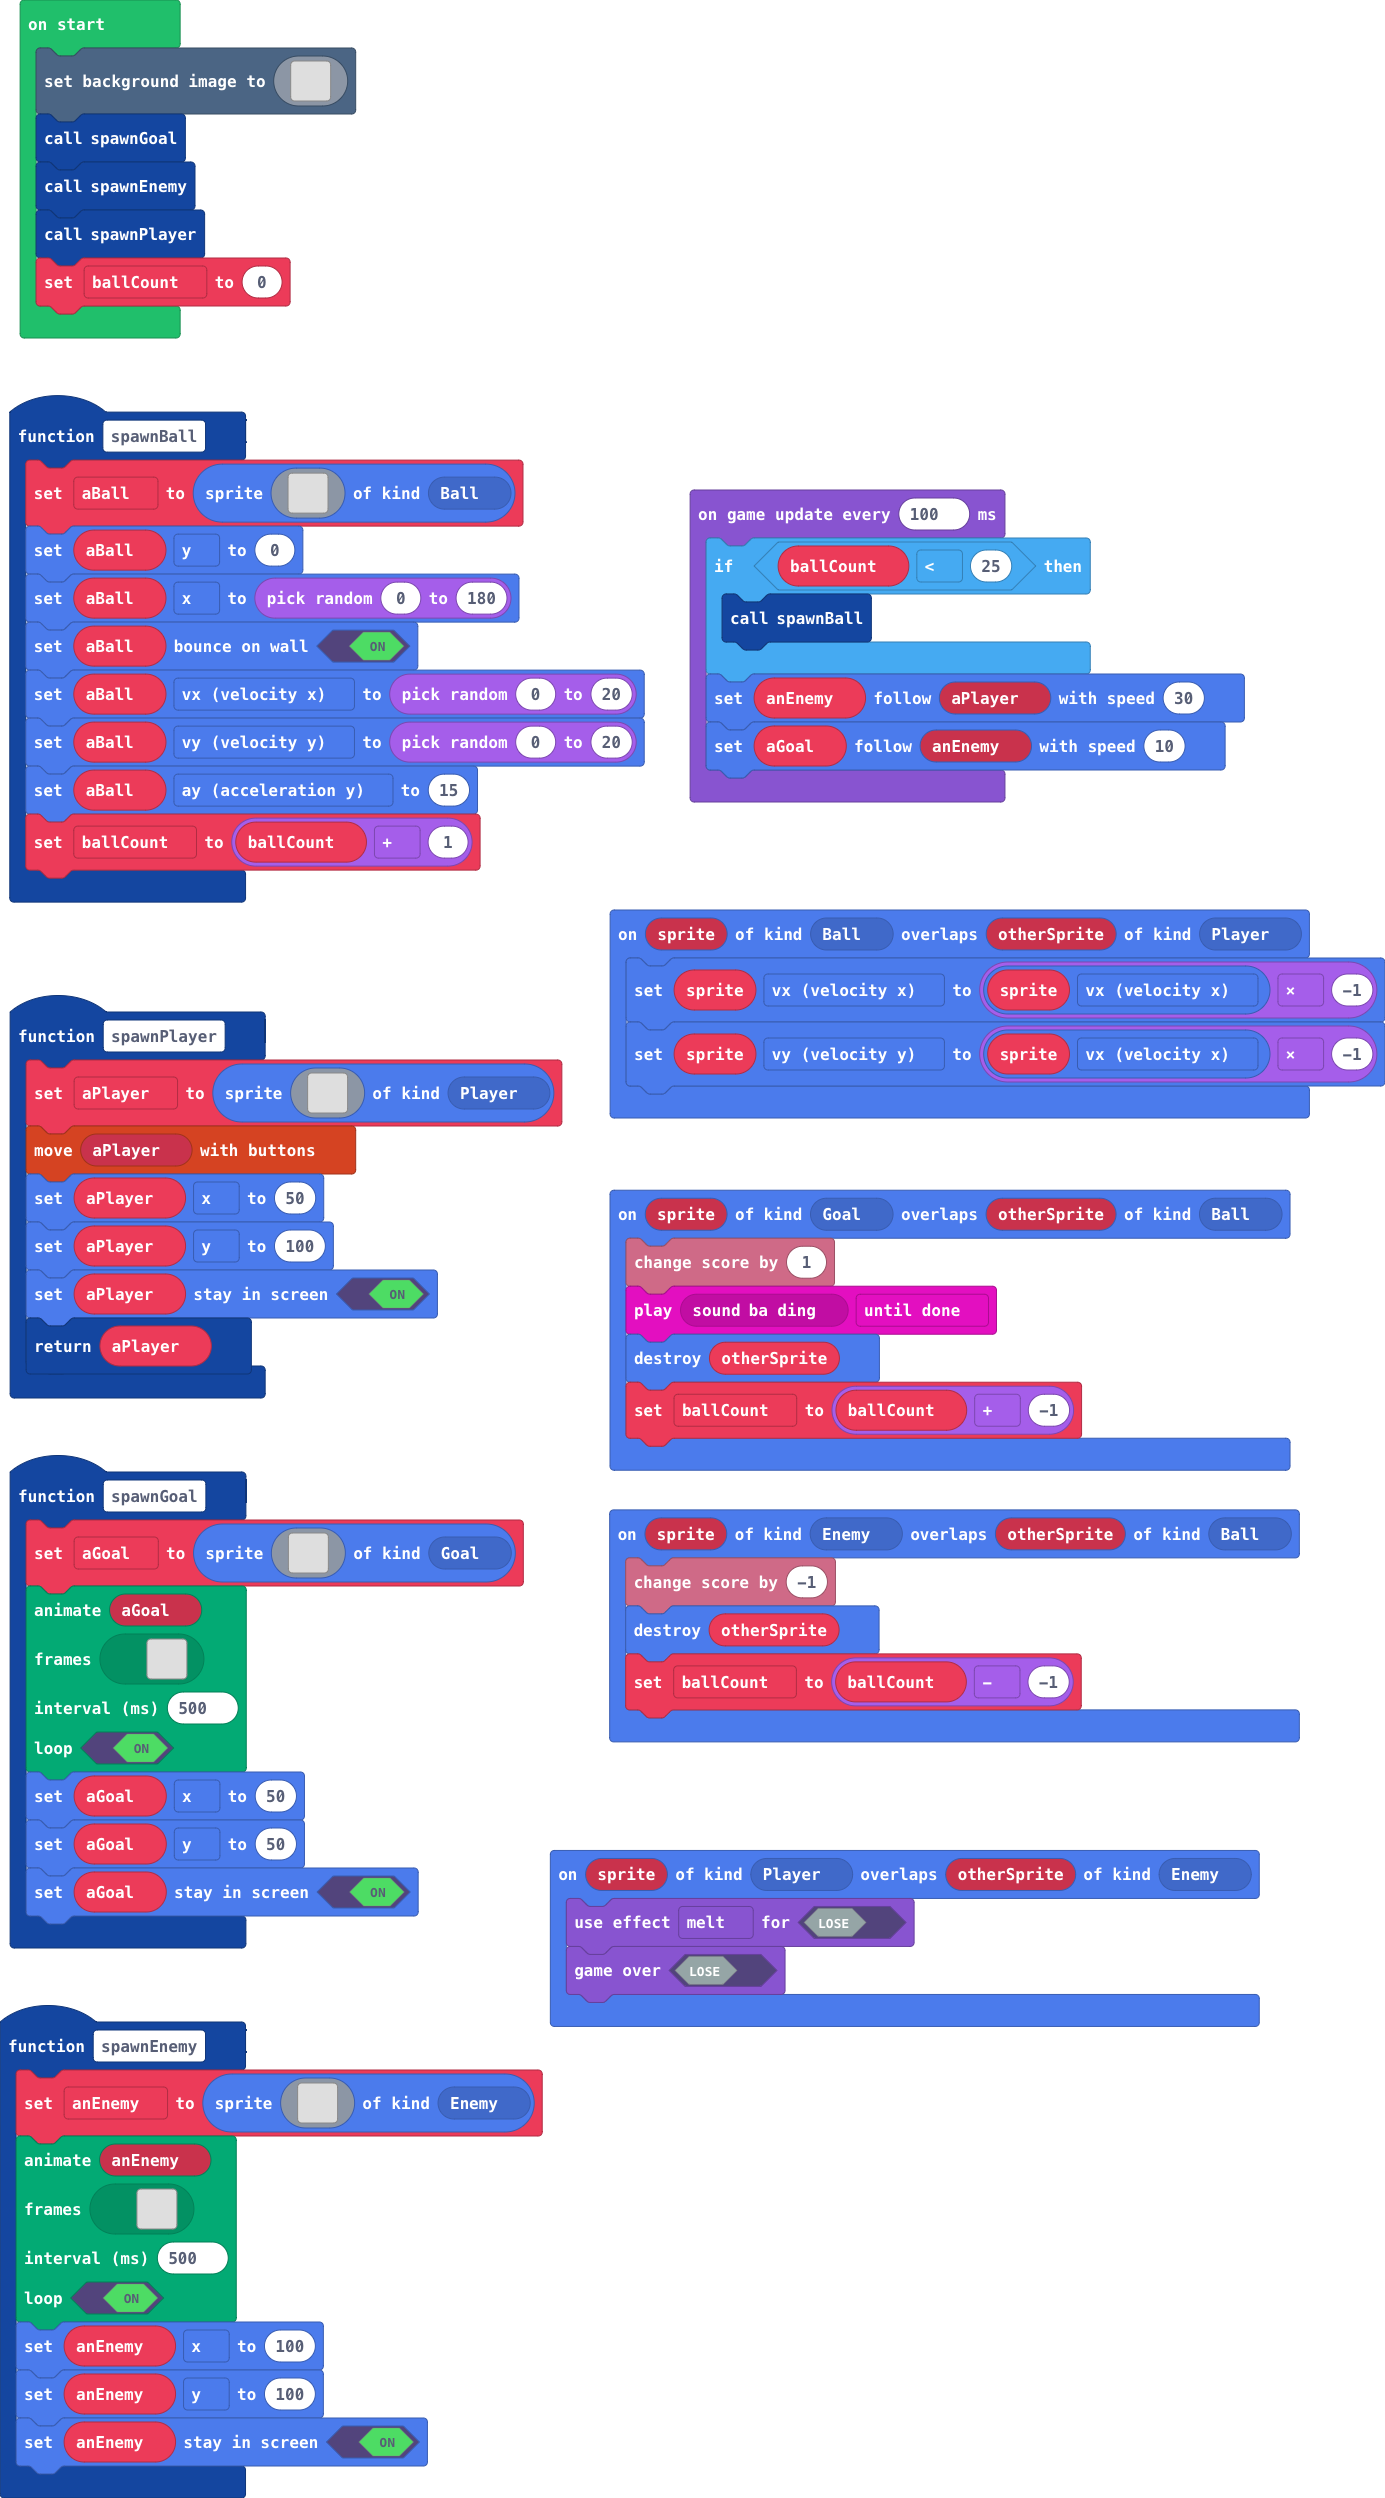
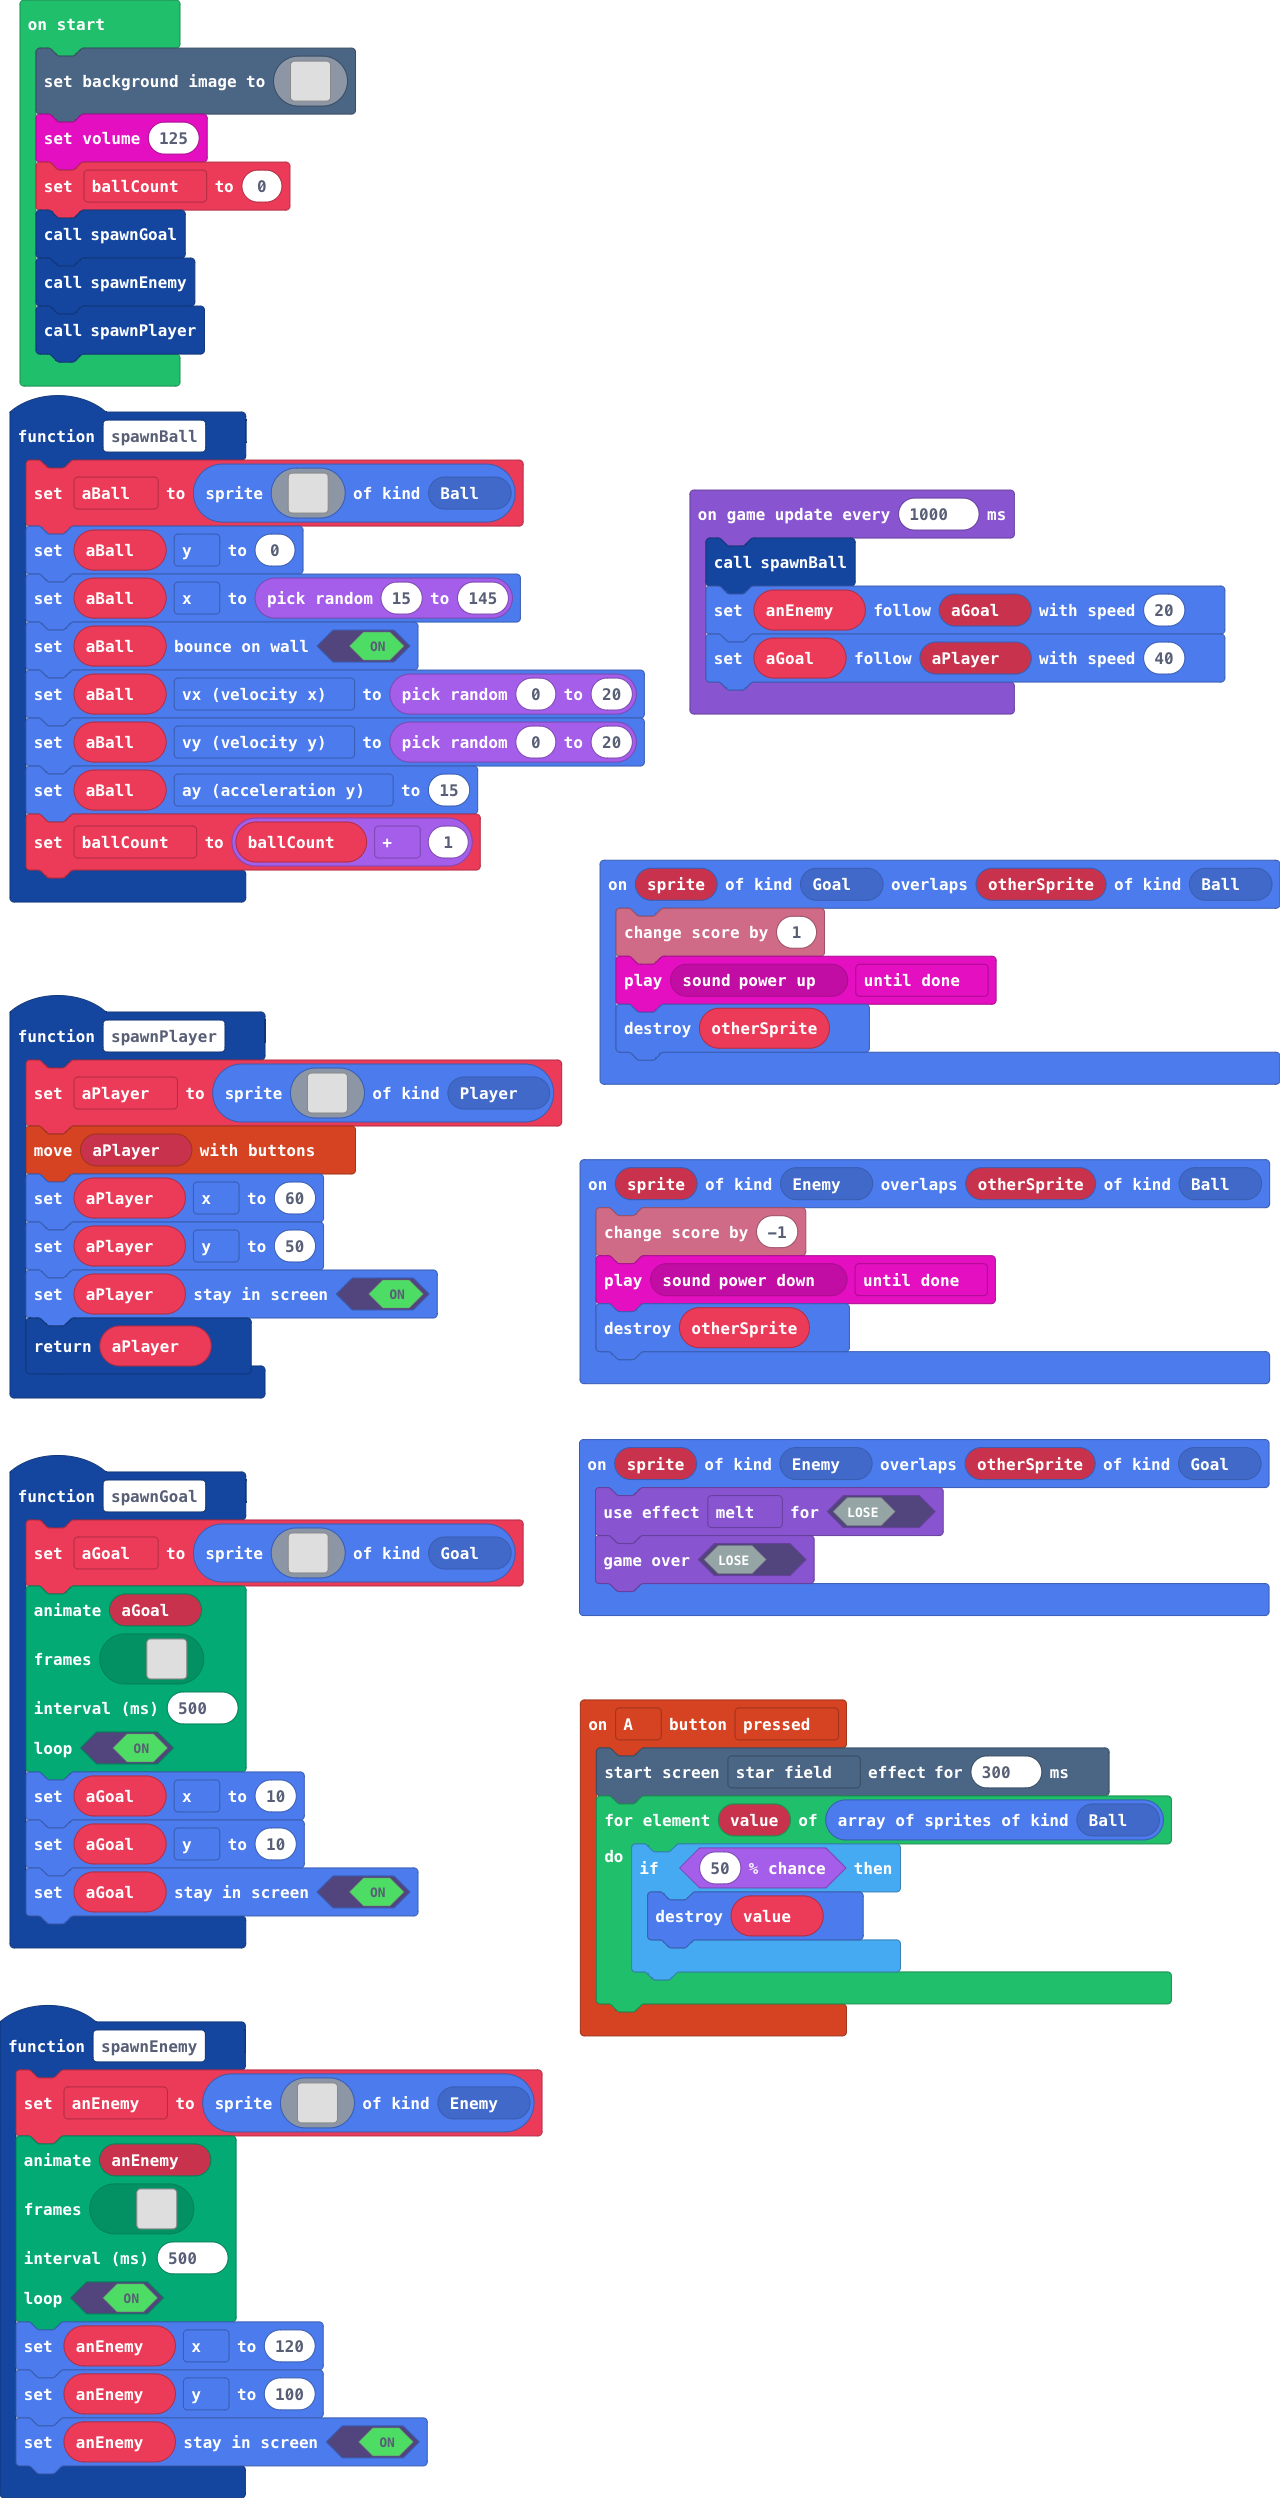
Update main.blocks, main.ts

diff --git a/main.ts b/main.ts
@@ -2,15 +2,10 @@ namespace SpriteKind {
     export const Ball = SpriteKind.create()
     export const Goal = SpriteKind.create()
 }
-sprites.onOverlap(SpriteKind.Ball, SpriteKind.Player, function (sprite, otherSprite) {
-    sprite.vx = sprite.vx * -1
-    sprite.vy = sprite.vx * -1
-})
 sprites.onOverlap(SpriteKind.Goal, SpriteKind.Ball, function (sprite, otherSprite) {
     info.changeScoreBy(1)
-    music.play(music.melodyPlayable(music.baDing), music.PlaybackMode.UntilDone)
+    music.play(music.melodyPlayable(music.powerUp), music.PlaybackMode.UntilDone)
     sprites.destroy(otherSprite)
-    ballCount = ballCount + -1
 })
 function spawnBall () {
     aBall = sprites.create(img`
@@ -21,9 +16,9 @@ function spawnBall () {
         . . . . . . . . . . . . . . . . 
         . . . . . . . . . . . . . . . . 
         . . . . . . . . . . . . . . . . 
-        . . . . . . . 8 8 8 . . . . . . 
-        . . . . . . . 8 7 8 . . . . . . 
-        . . . . . . . 8 8 8 . . . . . . 
+        . . . . . . . 4 4 4 . . . . . . 
+        . . . . . . . 4 5 4 . . . . . . 
+        . . . . . . . 4 4 4 . . . . . . 
         . . . . . . . . . . . . . . . . 
         . . . . . . . . . . . . . . . . 
         . . . . . . . . . . . . . . . . 
@@ -32,17 +27,29 @@ function spawnBall () {
         . . . . . . . . . . . . . . . . 
         `, SpriteKind.Ball)
     aBall.y = 0
-    aBall.x = randint(0, 180)
+    aBall.x = randint(15, 145)
     aBall.setBounceOnWall(true)
     aBall.vx = randint(0, 20)
     aBall.vy = randint(0, 20)
     aBall.ay = 15
     ballCount = ballCount + 1
 }
+controller.A.onEvent(ControllerButtonEvent.Pressed, function () {
+    effects.starField.startScreenEffect(300)
+    for (let value of sprites.allOfKind(SpriteKind.Ball)) {
+        if (Math.percentChance(50)) {
+            sprites.destroy(value)
+        }
+    }
+})
 sprites.onOverlap(SpriteKind.Enemy, SpriteKind.Ball, function (sprite, otherSprite) {
     info.changeScoreBy(-1)
+    music.play(music.melodyPlayable(music.powerDown), music.PlaybackMode.UntilDone)
     sprites.destroy(otherSprite)
-    ballCount = ballCount - -1
+})
+sprites.onOverlap(SpriteKind.Enemy, SpriteKind.Goal, function (sprite, otherSprite) {
+    game.setGameOverEffect(false, effects.melt)
+    game.gameOver(false)
 })
 function spawnGoal () {
     aGoal = sprites.create(img`
@@ -112,8 +119,8 @@ function spawnGoal () {
     500,
     true
     )
-    aGoal.x = 50
-    aGoal.y = 50
+    aGoal.x = 10
+    aGoal.y = 10
     aGoal.setStayInScreen(true)
 }
 function spawnPlayer () {
@@ -136,8 +143,8 @@ function spawnPlayer () {
         . . . . . . . . . . . . . . . . 
         `, SpriteKind.Player)
     controller.moveSprite(aPlayer)
-    aPlayer.x = 50
-    aPlayer.y = 100
+    aPlayer.x = 60
+    aPlayer.y = 50
     aPlayer.setStayInScreen(true)
     return aPlayer
 }
@@ -285,14 +292,10 @@ function spawnEnemy () {
     500,
     true
     )
-    anEnemy.x = 100
+    anEnemy.x = 120
     anEnemy.y = 100
     anEnemy.setStayInScreen(true)
 }
-sprites.onOverlap(SpriteKind.Player, SpriteKind.Enemy, function (sprite, otherSprite) {
-    game.setGameOverEffect(false, effects.melt)
-    game.gameOver(false)
-})
 let anEnemy: Sprite = null
 let aPlayer: Sprite = null
 let aGoal: Sprite = null
@@ -420,14 +423,13 @@ scene.setBackgroundImage(img`
     dddddddddddddddddddddddddddddddddddddddddddddddddddddddddddddddddddddddddddddddddddddddddddddddddddddddddddddddddddddddddddddddddddddddddddddddddddddddddddddddd
     dddddddddddddddddddddddddddddddddddddddddddddddddddddddddddddddddddddddddddddddddddddddddddddddddddddddddddddddddddddddddddddddddddddddddddddddddddddddddddddddd
     `)
+music.setVolume(125)
+ballCount = 0
 spawnGoal()
 spawnEnemy()
 spawnPlayer()
-ballCount = 0
-game.onUpdateInterval(100, function () {
-    if (ballCount < 25) {
-        spawnBall()
-    }
-    anEnemy.follow(aPlayer, 30)
-    aGoal.follow(anEnemy, 10)
+game.onUpdateInterval(1000, function () {
+    spawnBall()
+    anEnemy.follow(aGoal, 20)
+    aGoal.follow(aPlayer, 40)
 })
